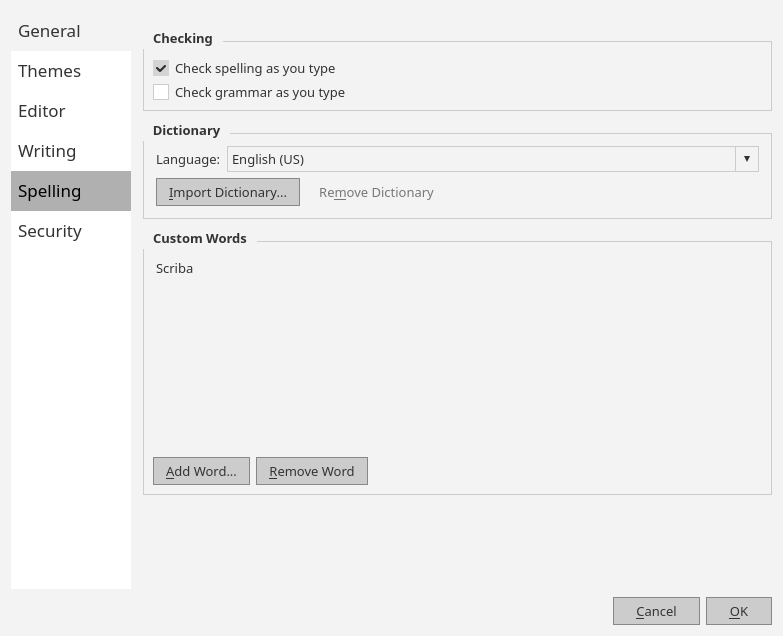
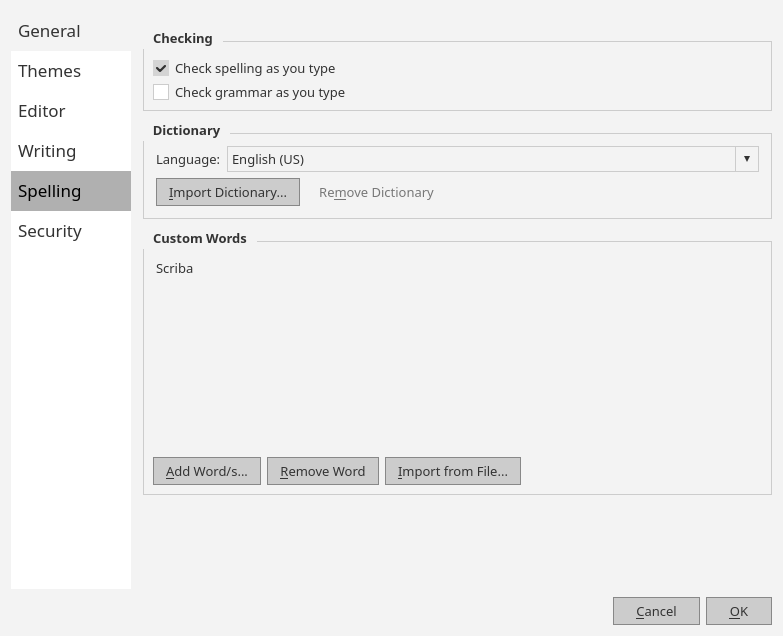
feat: add wordset / .dic to custom dictionary words, updated screenshots

Changed region(s): [[0.3065, 0.717, 0.6743, 0.7767], [0.2452, 0.717, 0.2759, 0.7469]]

diff --git a/src/PreferencesDialog.cpp b/src/PreferencesDialog.cpp
@@ -746,34 +746,71 @@ void PreferencesDialog::setupUi(const QString &themeBgColor, const QString &them
         customLayout->addWidget(m_customWordsList);
 
         QHBoxLayout *customButtons = new QHBoxLayout();
-        auto *addWordBtn = new QPushButton(tr("&Add Word..."));
+        auto *addWordsBtn = new QPushButton(tr("&Add Word/s..."));
         auto *removeWordBtn = new QPushButton(tr("&Remove Word"));
-        customButtons->addWidget(addWordBtn);
+        auto *importWordsBtn = new QPushButton(tr("&Import from File..."));
+        customButtons->addWidget(addWordsBtn);
         customButtons->addWidget(removeWordBtn);
+        customButtons->addWidget(importWordsBtn);
         customButtons->addStretch();
-        stripButtonIcons({addWordBtn, removeWordBtn});
+        stripButtonIcons({addWordsBtn, removeWordBtn, importWordsBtn});
         customLayout->addLayout(customButtons);
 
         layout->addWidget(customGroup);
 
         layout->addStretch();
 
-        connect(addWordBtn, &QPushButton::clicked, this, [this]() {
+        auto mergeParsedWords = [this](const QStringList &words) {
+            int added = 0;
+            int skipped = 0;
+            for (const QString &word : words) {
+                bool present = false;
+                for (int i = 0; i < m_customWordsList->count(); ++i) {
+                    if (m_customWordsList->item(i)->text() == word) {
+                        present = true;
+                        break;
+                    }
+                }
+                if (present) {
+                    ++skipped;
+                } else {
+                    m_customWordsList->addItem(word);
+                    ++added;
+                }
+            }
+            QString message = added == 1
+                ? tr("Added 1 word to your custom word list.")
+                : tr("Added %1 words to your custom word list.").arg(added);
+            if (skipped > 0)
+                message += skipped == 1
+                    ? tr(" 1 word was already present.")
+                    : tr(" %1 words were already present.").arg(skipped);
+            QMessageBox::information(this, tr("Custom Words"), message);
+        };
+
+        connect(addWordsBtn, &QPushButton::clicked, this, [this, mergeParsedWords]() {
             bool ok = false;
-            QString word = QInputDialog::getText(this, "Add Word", "Word:", QLineEdit::Normal, QString(), &ok);
+            QString text = QInputDialog::getMultiLineText(this, tr("Add Words"),
+                tr("Enter a word, or one word per line:"), QString(), &ok);
             if (!ok)
                 return;
-            QString trimmed = word.trimmed();
-            if (trimmed.isEmpty())
-                return;
-            for (int i = 0; i < m_customWordsList->count(); ++i) {
-                if (m_customWordsList->item(i)->text() == trimmed)
-                    return;
-            }
-            m_customWordsList->addItem(trimmed);
+            mergeParsedWords(SpellChecker::parseWordList(text));
         });
         connect(removeWordBtn, &QPushButton::clicked, this, [this]() {
             delete m_customWordsList->currentItem();
+        });
+        connect(importWordsBtn, &QPushButton::clicked, this, [this, mergeParsedWords]() {
+            const QString path = QFileDialog::getOpenFileName(this, tr("Import Custom Words"),
+                QDir::homePath(), tr("Text files (*.txt *.dic);;All files (*)"));
+            if (path.isEmpty())
+                return;
+            QFile file(path);
+            if (!file.open(QIODevice::ReadOnly | QIODevice::Text)) {
+                QMessageBox::warning(this, tr("Import Custom Words"),
+                    tr("Could not read the file."));
+                return;
+            }
+            mergeParsedWords(SpellChecker::parseWordList(QString::fromUtf8(file.readAll())));
         });
         connect(importDictBtn, &QPushButton::clicked, this, [this, reloadLanguages]() {
             const QString path = QFileDialog::getOpenFileName(this, tr("Import Dictionary"),

diff --git a/tests/test_spell_checker.cpp b/tests/test_spell_checker.cpp
@@ -144,6 +144,40 @@ TEST_F(SpellCheckerTest, WriteThenReadUserDictionaryRoundTrip)
     EXPECT_EQ(words, QStringList({"alpha", "mid", "zeta"}));
 }
 
+TEST_F(SpellCheckerTest, ParseWordListSplitsLinesAndTrims)
+{
+    EXPECT_EQ(SpellChecker::parseWordList(QStringLiteral("alpha\nbeta\n  gamma \n")),
+        QStringList({"alpha", "beta", "gamma"}));
+}
+
+TEST_F(SpellCheckerTest, ParseWordListSkipsEmptyLines)
+{
+    EXPECT_EQ(SpellChecker::parseWordList(QStringLiteral("\n\nalpha\n\nbeta\n\n")),
+        QStringList({"alpha", "beta"}));
+}
+
+TEST_F(SpellCheckerTest, ParseWordListHandlesCrlf)
+{
+    EXPECT_EQ(SpellChecker::parseWordList(QStringLiteral("alpha\r\nbeta\r\ngamma\r\n")),
+        QStringList({"alpha", "beta", "gamma"}));
+}
+
+TEST_F(SpellCheckerTest, ParseWordListSkipsHunspellCountHeader)
+{
+    // user.dic-style file: leading count line must not become a word
+    EXPECT_EQ(SpellChecker::parseWordList(QStringLiteral("3\nalpha\nbeta\ngamma\n")),
+        QStringList({"alpha", "beta", "gamma"}));
+    // a numeric word later in the list is kept
+    EXPECT_EQ(SpellChecker::parseWordList(QStringLiteral("alpha\n42\nbeta\n")),
+        QStringList({"alpha", "42", "beta"}));
+}
+
+TEST_F(SpellCheckerTest, ParseWordListEmptyInput)
+{
+    EXPECT_TRUE(SpellChecker::parseWordList(QString()).isEmpty());
+    EXPECT_TRUE(SpellChecker::parseWordList(QStringLiteral(" \n\n\t\n")).isEmpty());
+}
+
 TEST_F(SpellCheckerTest, UserDictionaryRoundTripSurvivesReload)
 {
     const QString word = "scribamarkdown";

diff --git a/src/SpellChecker.cpp b/src/SpellChecker.cpp
@@ -99,6 +99,29 @@ void SpellChecker::writeUserDictionaryWords(const QStringList &words)
     }
 }
 
+QStringList SpellChecker::parseWordList(const QString &text)
+{
+    QStringList words;
+    bool countHeaderSeen = false;
+    const QStringList lines = text.split('\n');
+    for (QString line : lines) {
+        if (line.endsWith('\r'))
+            line.chop(1);
+        QString trimmed = line.trimmed();
+        if (trimmed.isEmpty())
+            continue;
+        if (!countHeaderSeen) {
+            countHeaderSeen = true;
+            bool ok = false;
+            trimmed.toInt(&ok);
+            if (ok)
+                continue;
+        }
+        words << trimmed;
+    }
+    return words;
+}
+
 bool SpellChecker::findDictionaryFiles(const QString &language, QString &aff, QString &dic) const
 {
     for (const char *bundled : BundledLangs) {

diff --git a/src/SpellChecker.h b/src/SpellChecker.h
@@ -39,6 +39,11 @@ public:
     static QStringList readUserDictionaryWords();
     static void writeUserDictionaryWords(const QStringList &words);
 
+    // Parses user-supplied word list text (one word per line) into trimmed,
+    // non-empty words. A leading integer count line (hunspell user.dic header)
+    // is skipped so such files import cleanly.
+    static QStringList parseWordList(const QString &text);
+
 private:
     bool findDictionaryFiles(const QString &language, QString &aff, QString &dic) const;
     void loadUserDictionary();

diff --git a/docs/kitchensink.md b/docs/kitchensink.md
@@ -4,9 +4,9 @@ A quick tour of what Scriba can do.
 
 ## Typography
 
-**Bold**, *italic*, ~~strikethrough~~, `inline code`, and a [link](#). Emoji: :rocket: :heart: :sparkles: :smile: :tada:
+**Bold**, *italic*, ~~strike through~~, `inline code`, and a [link](#). Emojis: :rocket: :heart: :sparkles: :smile: :tada:
 
-> Blockquote with **inline** styling.
+> Block quote with **inline** styling.
 
 ## Images
 
@@ -17,7 +17,7 @@ Resize with `#WIDTHxHEIGHT` suffix appended to the image URL:
 - Width only:  `![](icons/scriba.svg#200x)`
 - Height only: `![](icons/scriba.svg#x100)`
 
-Tooltips for title, alt text in that priority. Hover over the below images
+Tool tips for title, alt text in that priority. Hover over the below images
 
 - ![Alt A](../resources/icons/fullscreen.svg) Alt A
 - ![Alt A](../resources/icons/fullscreen.svg "Title B") Title B
